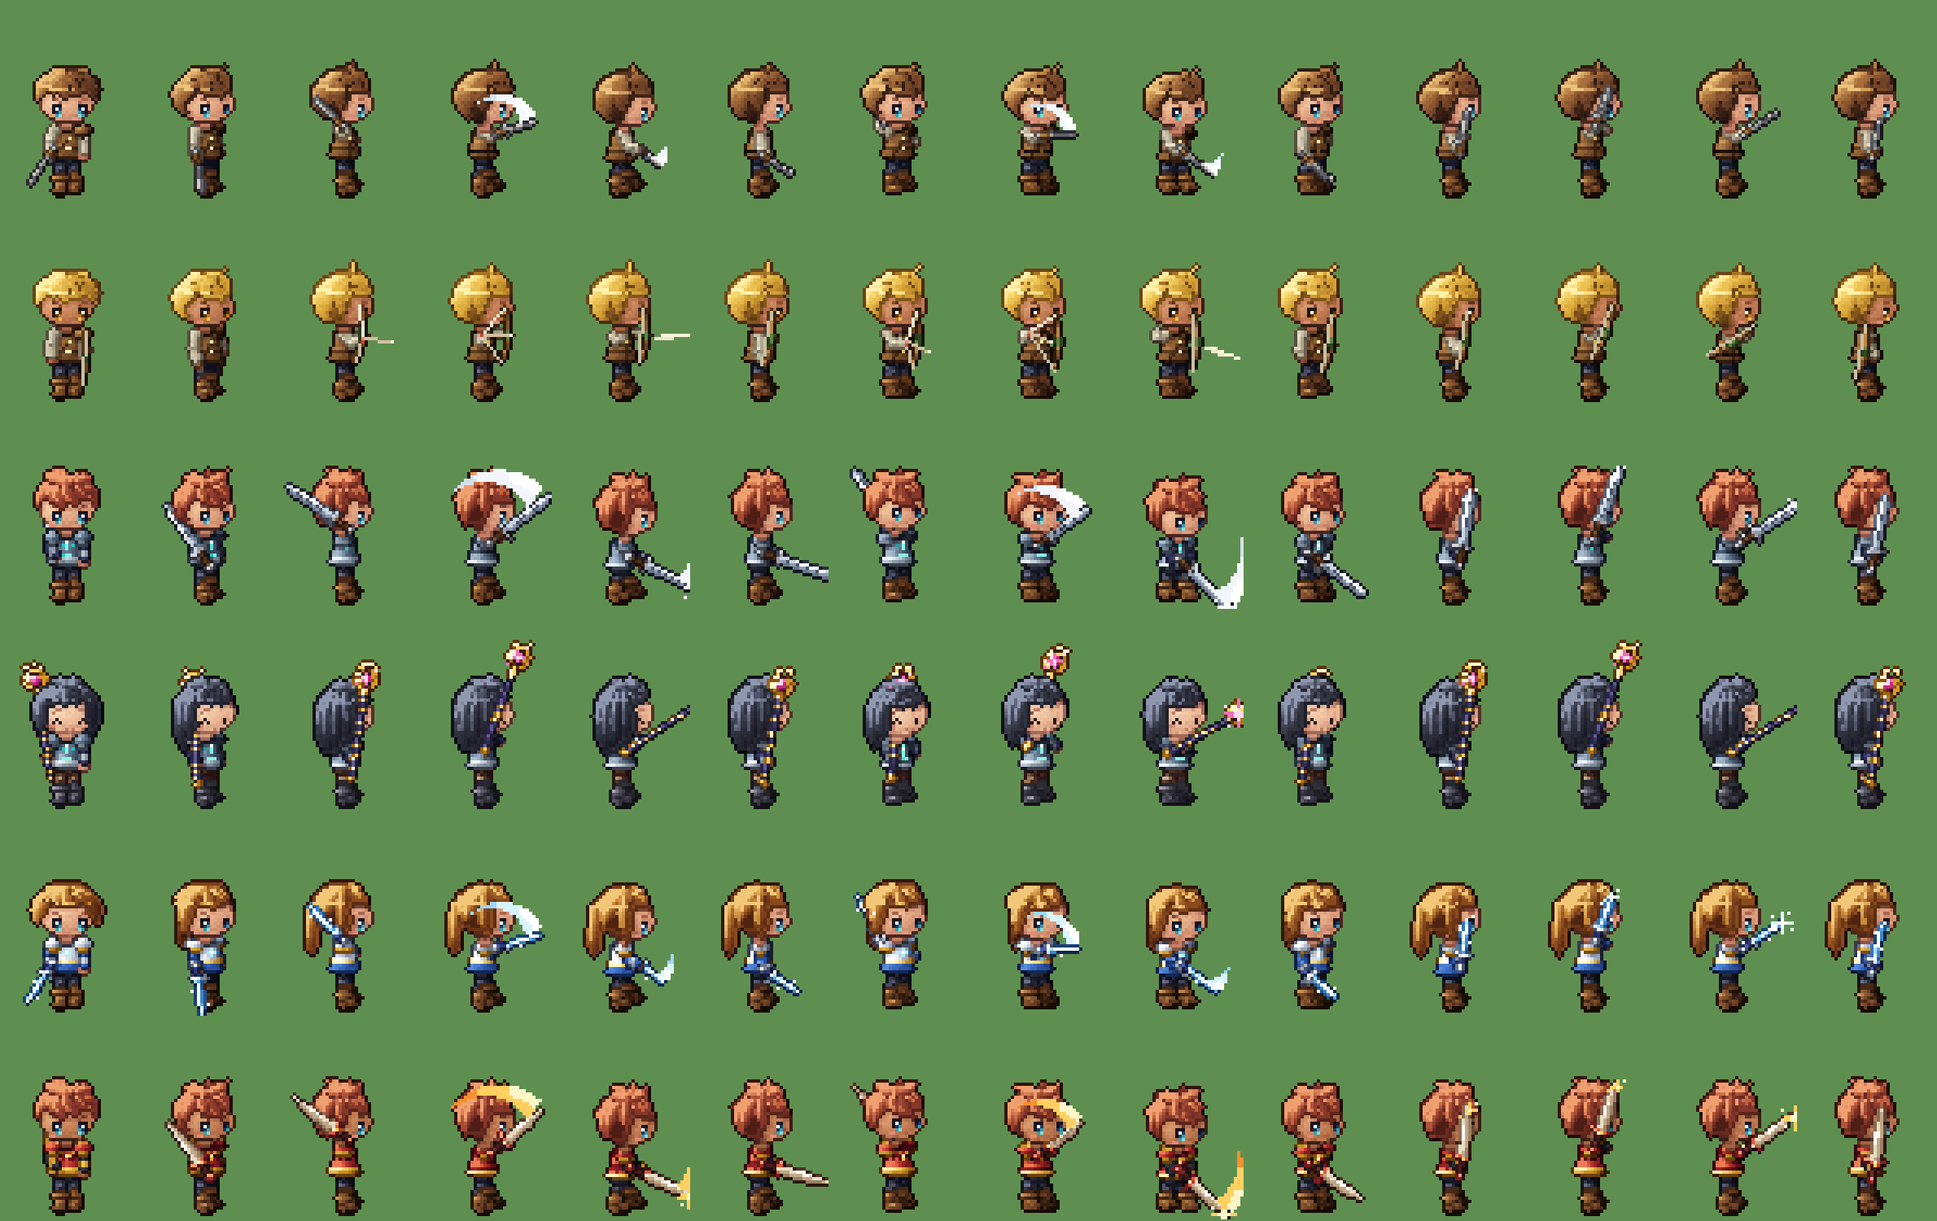
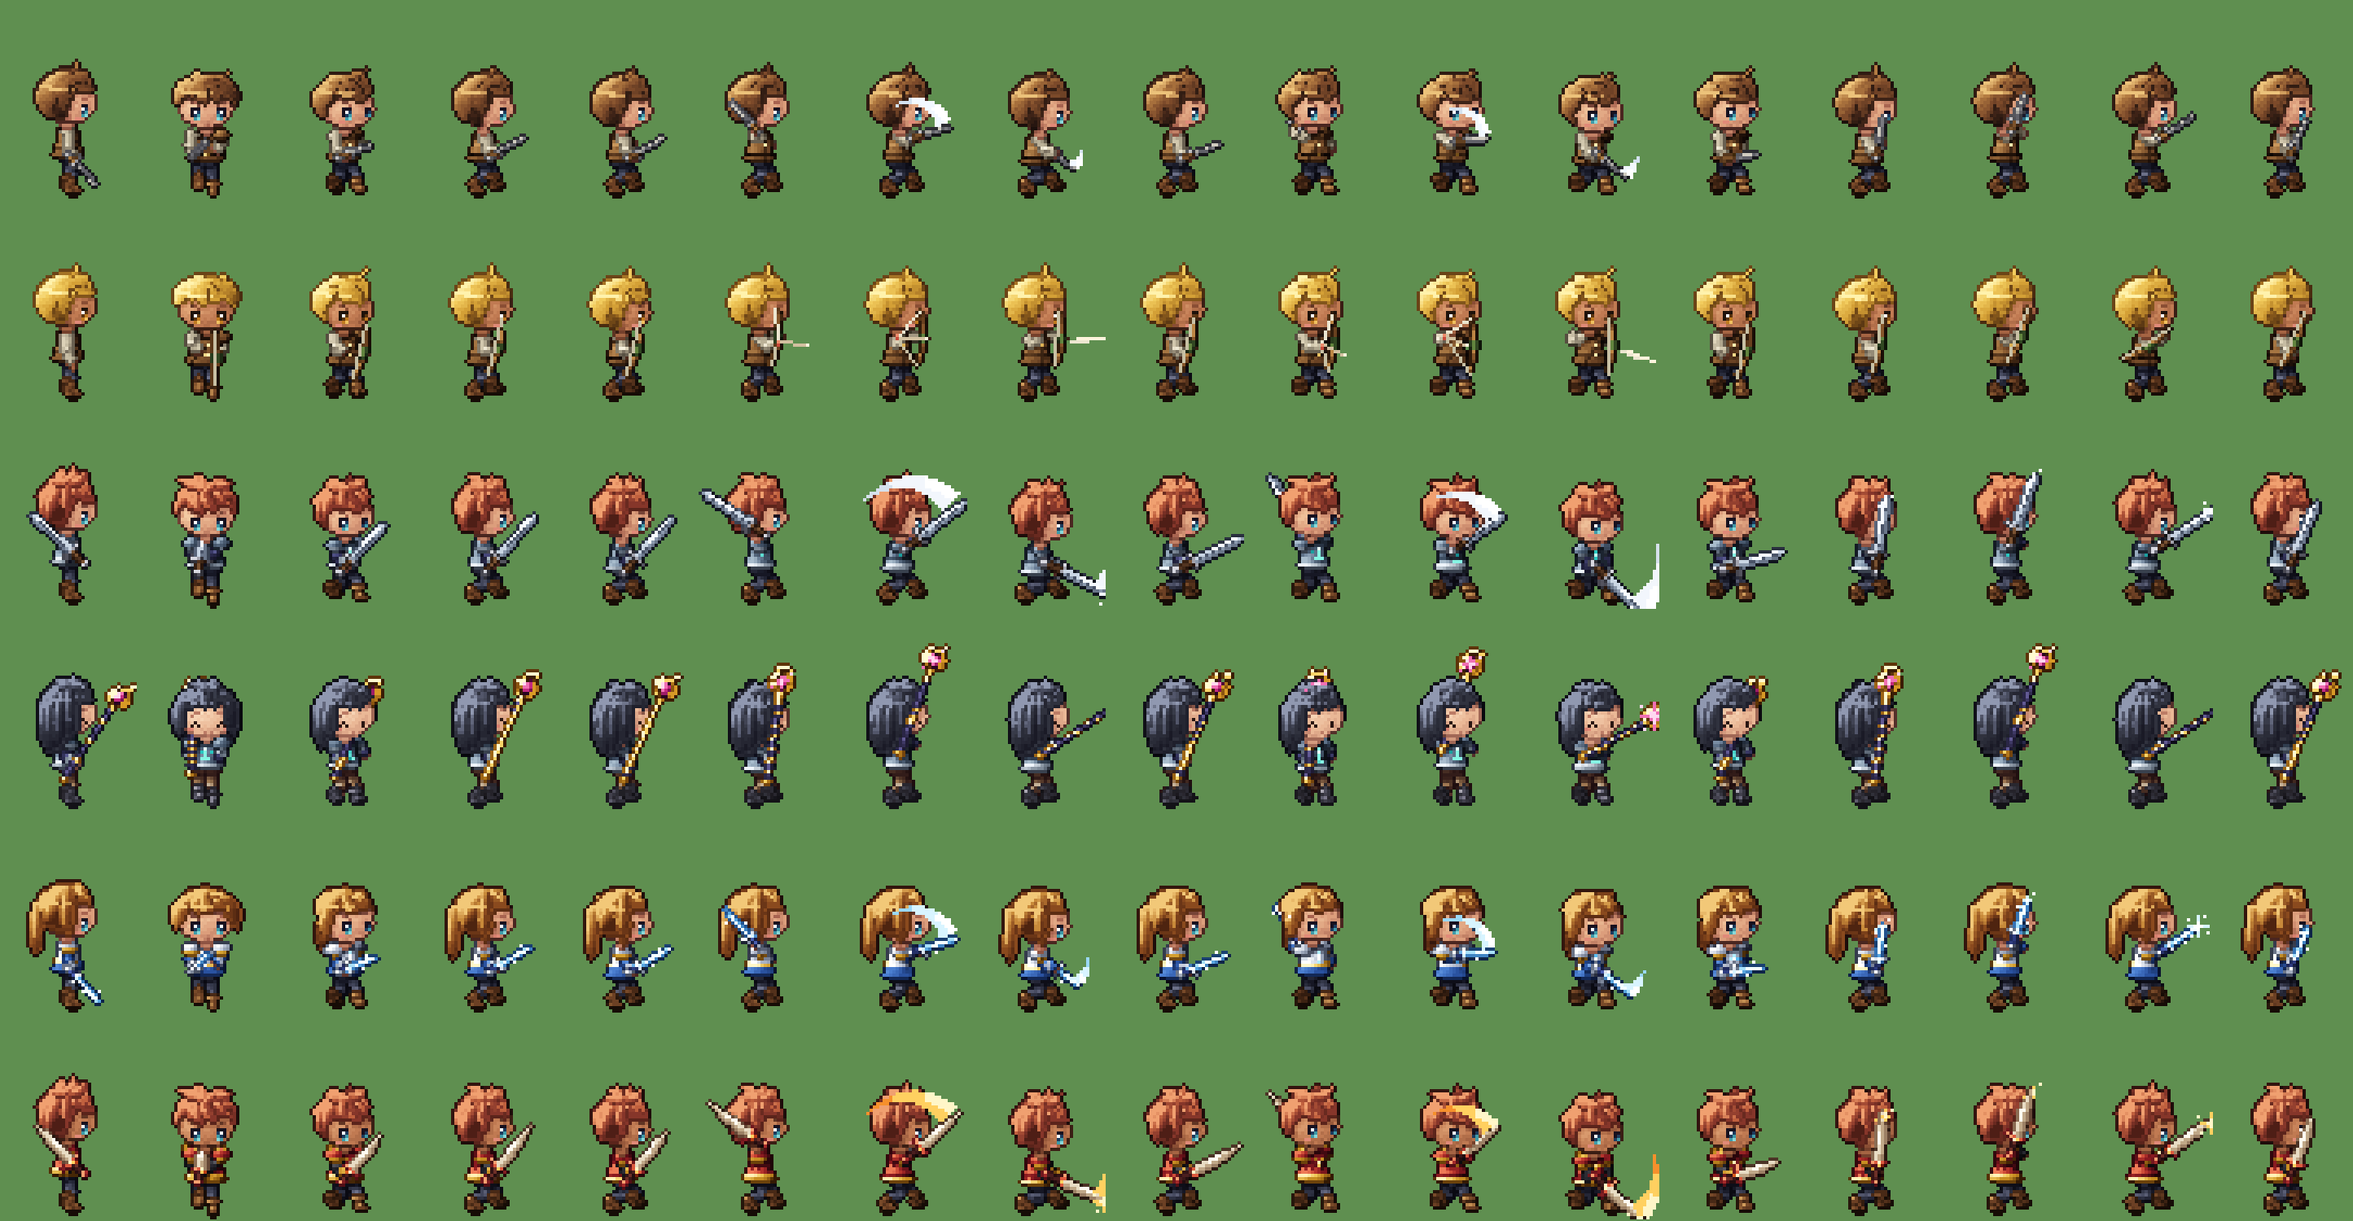
Combat ready stance per weapon, knee joints, smaller boots
- 'ready' 2-frame battle idle (frames 8-9), actions moved to 10-25; stance
  (foot spread, crouch, guard pose) depends on weapon hold
- legs get a knee joint that bends when hip-to-foot is shorter than the leg
- boots and trouser legs slimmed so leg poses stay readable

Claude-Session: https://claude.ai/code/session_01JLEecThURYQTCHEQgBW1W6

diff --git a/hd2d-walk-demo/src/character/rig.ts b/hd2d-walk-demo/src/character/rig.ts
@@ -33,23 +33,29 @@ export function setSpriteScale(s: number): void {
 }
 
 export const DIRS5: Dir5[] = ['S', 'SE', 'E', 'NE', 'N'];
-/** 战斗动作：每个 4 帧，接在行走后面 */
+/** 战斗动作：每个 4 帧，接在战斗待机后面 */
 export type ActionId = 'slash' | 'heavy' | 'shoot' | 'cast';
 export const ACTIONS: ActionId[] = ['slash', 'heavy', 'shoot', 'cast'];
 export const ACTION_LEN = 4;
 export const IDLE_FRAMES = [0, 1];
 export const WALK_FRAMES = [2, 3, 4, 5, 6, 7];
-/** 每个动作在 sheet 里的列号：挥砍 8–11，重劈 12–15，射箭 16–19，施法 20–23 */
+/** 战斗待机：两脚前后分开、压低重心、武器指向敌人，2 帧呼吸。姿势随武器种类变 */
+export const READY_FRAMES = [8, 9];
+const ACTION_BASE = 10;
+/** 每个动作在 sheet 里的列号：挥砍 10–13，重劈 14–17，射箭 18–21，施法 22–25 */
 export const ACTION_FRAMES: Record<ActionId, number[]> = Object.fromEntries(
-  ACTIONS.map((a, i) => [a, Array.from({ length: ACTION_LEN }, (_, k) => 8 + i * ACTION_LEN + k)]),
+  ACTIONS.map((a, i) => [a, Array.from({ length: ACTION_LEN }, (_, k) => ACTION_BASE + i * ACTION_LEN + k)]),
 ) as Record<ActionId, number[]>;
-export const FRAMES_PER_DIR = 8 + ACTIONS.length * ACTION_LEN;
+export const FRAMES_PER_DIR = ACTION_BASE + ACTIONS.length * ACTION_LEN;
+
+export type AnimId = 'idle' | 'walk' | 'ready' | ActionId;
 
 /** sheet 列号 → 动画名和动画内的帧序号 */
-export function frameInfo(frame: number): { anim: 'idle' | 'walk' | ActionId; t: number } {
+export function frameInfo(frame: number): { anim: AnimId; t: number } {
   if (frame < 2) return { anim: 'idle', t: frame };
   if (frame < 8) return { anim: 'walk', t: frame - 2 };
-  const k = frame - 8;
+  if (frame < ACTION_BASE) return { anim: 'ready', t: frame - 8 };
+  const k = frame - ACTION_BASE;
   return { anim: ACTIONS[Math.floor(k / ACTION_LEN)], t: k % ACTION_LEN };
 }
 
@@ -110,6 +116,8 @@ export interface Arm {
 export interface Leg {
   id: 'R' | 'L';
   hip: Joint;
+  /** 膝盖：腿伸直时在髋和脚的中点，下蹲 / 跨步时往前顶 */
+  knee: Joint;
   foot: Joint;
 }
 
@@ -118,8 +126,8 @@ export interface Pose {
   sin: number;
   cos: number;
   frame: number;
-  anim: 'idle' | 'walk' | ActionId;
-  /** 动画内的帧序号（待机 0-1，行走 0-5，动作 0-3） */
+  anim: AnimId;
+  /** 动画内的帧序号（待机 0-1，行走 0-5，战斗待机 0-1，动作 0-3） */
   t: number;
   /** 行走相位（弧度），待机为 0 */
   phase: number;
@@ -178,26 +186,65 @@ const ACTION_KEYS: Record<ActionId, ActKey[]> = {
     { R: [-8.5, 36, -3], L: [6, 22, 5], dir: [-0.15, 0.75, -0.65], lean: -0.5, bob: 0, step: 1 },
     { R: [-4, 30, 9], L: [7.5, 20, -2], dir: [0.1, 0.25, 1], lean: 1.5, bob: 0.5, step: 3, trail: true },
     { R: [-1, 22, 8], L: [8, 19, -3], dir: [0.55, -0.6, 0.55], lean: 2.2, bob: 1.5, step: 4, trail: true },
-    { R: [-8, 19, 4], L: [7.8, 17.6, -0.6], dir: [0.4, -0.6, 0.7], lean: 0.8, bob: 0.5, step: 2 },
+    { R: [-6, 21, 6], L: [5.5, 23, 4], dir: [0.2, 0.3, 0.93], lean: 1, bob: 0.5, step: 1 },
   ],
   heavy: [
     { R: [-3, 37, -2], L: [0, 0, 0], dir: [0.05, 0.55, -0.83], lean: -1, bob: 0, step: 1 },
     { R: [-2, 31, 8], L: [0, 0, 0], dir: [0.05, 0.6, 0.8], lean: 1.5, bob: 0.5, step: 3, trail: true },
     { R: [-1, 20, 9], L: [0, 0, 0], dir: [0.05, -0.45, 0.9], lean: 2.8, bob: 2.5, step: 5, trail: true, fx: 'burst' },
-    { R: [-3, 22, 6], L: [0, 0, 0], dir: [0.1, -0.35, 0.93], lean: 1.5, bob: 1, step: 3 },
+    { R: [-3, 21, 6], L: [0, 0, 0], dir: [0.1, 0.4, 0.9], lean: 1, bob: 1, step: 1.5 },
   ],
   shoot: [
     { R: [-3, 27, 8], L: [5, 27, 9], dir: [0, 1, 0.1], lean: 0.3, bob: 0, step: 2, fx: 'arrow' },
     { R: [-5, 30, -1], L: [3.5, 27, 12], dir: [0, 1, 0.05], lean: 0.5, bob: 0, step: 2, fx: 'arrow' },
     { R: [-7.5, 31, -4], L: [3.5, 27, 12], dir: [0, 1, 0.05], lean: 0.3, bob: 0, step: 2, fx: 'loose' },
-    { R: [-8, 20, 1], L: [6.5, 24, 6], dir: [0.05, 1, 0.15], lean: 0.2, bob: 0, step: 1 },
+    { R: [-4.5, 23, 2], L: [5, 23, 8], dir: [0, 1, 0.28], lean: 0.4, bob: 0, step: 0.5 },
   ],
   cast: [
     { R: [-8, 25, 5], L: [5, 25, 7], dir: [0, 1, 0.15], lean: 0.3, bob: 1, step: 1, fx: 'glow' },
     { R: [-7, 36, 4], L: [6, 27, 8], dir: [0.05, 0.92, 0.35], lean: 0.5, bob: 0, step: 1, fx: 'glow' },
     { R: [-5, 31, 10], L: [7.5, 22, 2], dir: [0.05, 0.55, 0.85], lean: 1.5, bob: 0.5, step: 2, fx: 'burst' },
-    { R: [-9, 22, 3.5], L: [7.8, 17.6, -0.6], dir: [0.05, 1, 0.2], lean: 0.5, bob: 0, step: 1 },
+    { R: [-7, 24, 5], L: [6, 25, 7], dir: [0.05, 0.9, 0.4], lean: 0.6, bob: 0, step: 0.5 },
   ],
+};
+
+/**
+ * 战斗站姿（按右手武器的握持方式）：战斗待机直接用它，攻击动作的脚步和下蹲也以它为底。
+ *   front / back：前脚（左脚）往前、后脚（右脚）往后各多少；crouch：压低多少
+ *   key：战斗待机那一帧的手和武器（第 2 帧在此基础上呼吸下沉）
+ */
+interface Stance {
+  front: number;
+  back: number;
+  crouch: number;
+  key: ActKey;
+}
+const STANCES: Record<Hold | 'none', Stance> = {
+  // 单手剑：侧身，剑尖斜指前上方，左手护在胸前
+  down: {
+    front: 5, back: 4.2, crouch: 2,
+    key: { R: [-6, 22, 6], L: [5.5, 24, 4.5], dir: [0.15, 0.45, 0.88], lean: 0.9, bob: 0, step: 0 },
+  },
+  // 双手大剑：最宽最低的马步，双手握剑斜架在身前
+  shoulder: {
+    front: 6, back: 5.2, crouch: 2.8,
+    key: { R: [-3, 21, 5], L: [0, 0, 0], dir: [0.1, 0.72, 0.68], lean: 0.6, bob: 0, step: 0 },
+  },
+  // 弓：侧身拉开距离，弓压低指向前方，右手搭在弦上
+  bow: {
+    front: 4.2, back: 4.8, crouch: 1.5,
+    key: { R: [-4, 24, 2.5], L: [5, 22, 8], dir: [0, 1, 0.3], lean: 0.4, bob: 0, step: 0 },
+  },
+  // 法杖：杖身前倾，左手张开在身前准备施法
+  up: {
+    front: 3.8, back: 3.2, crouch: 1.3,
+    key: { R: [-7, 24, 5], L: [6, 25, 7], dir: [0.05, 0.9, 0.42], lean: 0.6, bob: 0, step: 0 },
+  },
+  // 空手：双拳举在胸前
+  none: {
+    front: 4.4, back: 3.6, crouch: 1.7,
+    key: { R: [-4, 26, 6], L: [4.5, 27, 7.5], dir: [0.14, 0.95, 0.1], lean: 0.9, bob: 0, step: 0 },
+  },
 };
 
 /** 双手武器（重劈）：左手握在右手前面一点的剑柄上 */
@@ -213,8 +260,13 @@ export function makePose(dir: Dir5, frame: number, opts: PoseOptions = {}): Pose
   const [sin, cos] = TRIG[dir];
   const { anim, t } = frameInfo(frame);
   const walking = anim === 'walk';
-  const act = anim !== 'idle' && anim !== 'walk' ? ACTION_KEYS[anim][t] : undefined;
-  const prevAct = act && t > 0 ? ACTION_KEYS[anim as ActionId][t - 1] : undefined;
+  const stance = STANCES[opts.armedR ?? 'none'];
+  const act: ActKey | undefined =
+    anim === 'ready' ? { ...stance.key, bob: t === 1 ? 0.7 : 0 } :
+    anim !== 'idle' && anim !== 'walk' ? ACTION_KEYS[anim][t] : undefined;
+  const prevAct = act && anim !== 'ready' && t > 0 ? ACTION_KEYS[anim as ActionId][t - 1] : undefined;
+  // 双手握：重劈，以及大剑的战斗待机
+  const twoHand = anim === 'heavy' || (anim === 'ready' && opts.armedR === 'shoulder');
 
   let s = 0, c = 0, bob = 0, phase = 0;
   if (walking) {
@@ -223,7 +275,7 @@ export function makePose(dir: Dir5, frame: number, opts: PoseOptions = {}): Pose
     c = Math.cos(phase);
     bob = t % 3 === 1 ? 1 : 0; // 迈到最大步幅时身体下沉
   } else if (act) {
-    bob = act.bob;
+    bob = act.bob + stance.crouch; // 战斗中重心一直压低
   } else {
     bob = t === 1 ? 1 : 0; // 呼吸
   }
@@ -257,10 +309,10 @@ export function makePose(dir: Dir5, frame: number, opts: PoseOptions = {}): Pose
 
     // 弓拿在左手：左手是「持武器」的那只
     const isBowArm = hold === 'bow';
-    if (act && (sign < 0 || isBowArm || anim === 'heavy')) {
+    if (act && (sign < 0 || isBowArm || twoHand)) {
       // 动作帧：手的位置来自关键帧；双手重劈时左手握在剑柄上
       let p: V3 = sign < 0 ? act.R : act.L;
-      if (sign > 0 && anim === 'heavy') {
+      if (sign > 0 && twoHand) {
         p = [act.R[0] + act.dir[0] * TWO_HAND_GAP, act.R[1] + act.dir[1] * TWO_HAND_GAP, act.R[2] + act.dir[2] * TWO_HAND_GAP];
       }
       j = proj(p[0], p[1] - bob, p[2]);
@@ -327,18 +379,29 @@ export function makePose(dir: Dir5, frame: number, opts: PoseOptions = {}): Pose
   const armR = arm(-1, bow ? undefined : opts.armedR), armL = arm(1, bow ? 'bow' : opts.armedL);
 
   const leg = (id: 'R' | 'L', sign: -1 | 1): Leg => {
-    const hip = proj(2.8 * sign, HIP - bob, 0, 0);
+    const hipUp = HIP - bob;
+    const hip = proj(2.8 * sign, hipUp, 0, 0);
+    // 先求脚的局部坐标（side, up, fwd），再算膝盖
+    let fs: number, fu: number, ff: number;
     if (act) {
-      // 战斗动作：左脚往前跨，右脚往后蹬
-      return { id, hip, foot: sign < 0 ? proj(-3.6, 0, -act.step * 0.5) : proj(3.2, 0, act.step) };
-    }
-    if (!walking) {
+      // 战斗站姿：左脚在前、右脚在后，攻击时前脚再往前跨
+      [fs, fu, ff] = sign < 0 ? [-3.4, 0, -stance.back - act.step * 0.3] : [3.4, 0, stance.front + act.step * 0.6];
+    } else if (!walking) {
       // 稍息：右脚略向前、向外
-      return { id, hip, foot: sign < 0 ? proj(-3.6, 0, 1.5) : proj(3, 0, -0.4) };
+      [fs, fu, ff] = sign < 0 ? [-3.6, 0, 1.5] : [3, 0, -0.4];
+    } else {
+      const swing = -s * sign; // 右脚 fwd = +s
+      const lift = Math.max(0, -c * sign) * 2.6; // 向前摆的那只脚抬起
+      [fs, fu, ff] = [3 * sign, lift, 5 * swing];
     }
-    const swing = -s * sign; // 右脚 fwd = +s
-    const lift = Math.max(0, -c * sign) * 2.6; // 向前摆的那只脚抬起
-    return { id, hip, foot: proj(3 * sign, lift, 5 * swing) };
+    // 膝盖：大腿和小腿一样长，髋到脚的距离不够腿长时膝盖往前顶出去（下蹲、跨步时腿是弯的）
+    const LEG = 8.2;
+    const ds = fs - 2.8 * sign, du = fu - hipUp, df = ff;
+    const dist = Math.hypot(ds, du, df);
+    const bend = Math.sqrt(Math.max(0, LEG * LEG - (dist / 2) ** 2));
+    // 弯曲方向：大致朝前，后脚的膝盖也朝前（往下压）
+    const knee = proj(2.8 * sign + ds / 2, hipUp + du / 2, df / 2 + bend * 0.9, 0.2);
+    return { id, hip, knee, foot: proj(fs, fu, ff) };
   };
   const legR = leg('R', -1), legL = leg('L', 1);
   const legs: [Leg, Leg] = legR.foot.near <= legL.foot.near ? [legR, legL] : [legL, legR];

diff --git a/hd2d-walk-demo/src/items/shoes/boots.ts b/hd2d-walk-demo/src/items/shoes/boots.ts
@@ -3,7 +3,7 @@ import { LX, LY, LZ, DARKEN, LIGHTEN } from '../../pixel/Brush';
 import type { ItemDef, PartDef } from '../../character/types';
 import { farBias } from '../shared';
 
-/** 棕色短靴：宽翻边靴口、厚鞋底、朝脚尖方向伸出的鞋头。 */
+/** 棕色短靴：小巧的翻边靴口、薄鞋底、朝脚尖方向伸出的鞋头。脚要小，腿部动作（跨步、下蹲）才看得清。 */
 const brown = pal('boots-brown', '#160c06', '#3c2212', '#6c4024', '#9c6838', '#d09c5c');
 
 const boot = (i: 0 | 1): PartDef => ({
@@ -13,46 +13,46 @@ const boot = (i: 0 | 1): PartDef => ({
     const f = pose.legs[i].foot;
     const fb = farBias(c, f);
     const x = f.x, y = f.y;
-    const toe = pose.sin * 2.1;
+    const toe = pose.sin * 1.7;
     const front = pose.cos > 0.9;
     c.pal('main');
     g.anchor(x, y);
 
     // 脚掌：一个压扁的椭球，朝脚尖方向伸出去，底面削平
     const sole = y + (front ? 1.1 : 0.4);
-    const fcx = x + toe * 0.9, fcy = y - 1.4 + (front ? 0.7 : 0);
-    const frx = 3.1 + Math.abs(toe) * 0.75, fry = 2.6;
+    const fcx = x + toe * 0.9, fcy = y - 1.1 + (front ? 0.6 : 0);
+    const frx = 2.2 + Math.abs(toe) * 0.7, fry = 2;
     g.fill(fcx - frx, fcy - fry, fcx + frx, sole, (u, v) => {
       const nx = (u - fcx) / frx, ny = (v - fcy) / fry;
       const d = nx * nx + ny * ny;
       if (d > 1 || v > sole) return -1;
-      if (v > sole - 0.8) return OUTLINE; // 厚鞋底
+      if (v > sole - 0.6) return OUTLINE; // 鞋底
       return g.t(nx * LX + ny * LY + Math.sqrt(1 - d) * LZ, fb);
     });
     // 靴筒
-    g.capsule(x, y - 5.2, x, y - 2.4, 2.8, 2.9, (lam) => g.t(lam, fb));
+    g.capsule(x, y - 4.4, x, y - 2, 2.05, 2.15, (lam) => g.t(lam, fb));
     // 翻边靴口：比靴筒宽一圈
-    g.fill(x - 3.6, y - 7, x + 3.6, y - 4.6, (u, v) => {
-      const nx = (u - x) / 3.5;
-      if (Math.abs(nx) > 1 || v < y - 6.9 || v > y - 4.7) return -1;
-      return g.t(nx * LX + Math.sqrt(1 - nx * nx) * LZ, fb + (v > y - 5.4 ? -0.3 : 0.3));
+    g.fill(x - 2.7, y - 5.9, x + 2.7, y - 4, (u, v) => {
+      const nx = (u - x) / 2.6;
+      if (Math.abs(nx) > 1 || v < y - 5.8 || v > y - 4.1) return -1;
+      return g.t(nx * LX + Math.sqrt(1 - nx * nx) * LZ, fb + (v > y - 4.7 ? -0.3 : 0.3));
     });
 
     g.clip = true;
-    g.line(x - 2.8, y - 4.4, x + 3, y - 4.4, DARKEN); // 翻边下的阴影
+    g.line(x - 2, y - 3.8, x + 2.2, y - 3.8, DARKEN); // 翻边下的阴影
     if (fb === 0) {
-      g.dot(x - 2.6, y - 6.6, HI);
+      g.dot(x - 1.8, y - 5.5, HI);
       if (pose.cos > 0.3) {
         const lx = x + pose.sin * 1.2;
-        g.line(lx - 1, y - 3, lx + 1, y - 3, LIGHTEN); // 鞋带
+        g.line(lx - 0.8, y - 2.6, lx + 0.8, y - 2.6, LIGHTEN); // 鞋带
       } else if (pose.cos < -0.3) {
-        g.line(x, y - 4.8, x, y - 1.4, DARKEN); // 后跟的缝线
+        g.line(x, y - 4, x, y - 1.2, DARKEN); // 后跟的缝线
       } else {
-        g.fold(x - 1.2, y - 3.4, x + 2, y - 2.6); // 脚踝的褶
+        g.fold(x - 1, y - 3, x + 1.6, y - 2.3); // 脚踝的褶
       }
       g.dot(fcx - 0.8 + toe * 0.3, fcy - 1, LIGHTEN); // 鞋头高光
     } else {
-      g.line(x - 2.8, y - 3.8, x + 3, y - 3.8, DARK);
+      g.line(x - 2, y - 3.3, x + 2.2, y - 3.3, DARK);
     }
     g.clip = false;
   },

diff --git a/hd2d-walk-demo/scripts/action-preview.ts b/hd2d-walk-demo/scripts/action-preview.ts
@@ -1,12 +1,12 @@
 /**
- * 战斗动作 / 装备预览：每行一套「护甲 + 武器」，先是正面和右前的待机，再是这把武器的攻击动作
+ * 战斗动作 / 装备预览：每行一套「护甲 + 武器」，先是右侧的普通待机做对比，再是战斗待机（正面、右前、右侧两帧），然后是这把武器的攻击动作
  * （右侧 4 帧 = 战斗场景里的朝向，右前 4 帧），最后是施法 / 鼓舞动作的右侧 4 帧。
  *   npm run action-preview -- <输出.png>
  */
 import { writeFileSync } from 'node:fs';
 import { PixelLayer } from '../src/pixel/PixelLayer';
 import { composeFrame } from '../src/character/paperdoll';
-import { ACTION_FRAMES, SPR_H, SPR_W, type ActionId } from '../src/character/rig';
+import { ACTION_FRAMES, READY_FRAMES, SPR_H, SPR_W, type ActionId } from '../src/character/rig';
 import type { Dir5 } from '../src/character/types';
 import { CHARACTERS, buildEquipment, type CharacterPreset } from '../src/items/characters';
 import { getItem } from '../src/items/registry';
@@ -23,7 +23,7 @@ const rows: { label: string; p: CharacterPreset; top?: string }[] = [
 ];
 
 const Z = 4, PAD = 2;
-const head: [Dir5, number][] = [['S', 0], ['SE', 0]];
+const head: [Dir5, number][] = [['E', 0], ['S', READY_FRAMES[0]], ['SE', READY_FRAMES[0]], ['E', READY_FRAMES[0]], ['E', READY_FRAMES[1]]];
 function rowCells(attack: ActionId): [Dir5, number][] {
   return [
     ...head,

diff --git a/hd2d-walk-demo/src/character/types.ts b/hd2d-walk-demo/src/character/types.ts
@@ -1,7 +1,7 @@
 import type { Palette } from '../pixel/palette';
 import type { PixelLayer } from '../pixel/PixelLayer';
 import type { Brush } from '../pixel/Brush';
-import type { ActionId, HandAnchor, Hold, Pose, Joint } from './rig';
+import type { ActionId, AnimId, HandAnchor, Hold, Pose, Joint } from './rig';
 import type { LayerId } from './layers';
 
 /** 装备槽位 */
@@ -17,7 +17,7 @@ export interface DrawCtx {
   dir: Dir5;
   /** sheet 列号：0-1 待机，2-7 行走 */
   frame: number;
-  anim: 'idle' | 'walk' | ActionId;
+  anim: AnimId;
   /** 这一帧的骨架姿态（关节坐标、手部锚点等） */
   pose: Pose;
   /** 当前部件的临时图层（像素坐标），只写调色板索引 */

diff --git a/hd2d-walk-demo/src/items/bottom/trousers.ts b/hd2d-walk-demo/src/items/bottom/trousers.ts
@@ -16,9 +16,11 @@ const leg = (i: 0 | 1): PartDef => ({
     const fx = l.foot.x, fy = l.foot.y - 5;
     c.pal('main');
     g.anchor(fx, fy);
-    g.capsule(l.hip.x, l.hip.y, fx, fy, 2.8, 2.5, (lam) => g.t(lam, fb + 0.05));
+    // 大腿 + 小腿两段，膝盖处能弯
+    g.capsule(l.hip.x, l.hip.y, l.knee.x, l.knee.y, 2.5, 2.1, (lam) => g.t(lam, fb + 0.05));
+    g.capsule(l.knee.x, l.knee.y, fx, fy, 2.1, 1.95, (lam) => g.t(lam, fb + 0.05));
     // 膝盖和裤脚的褶
-    const kx = (l.hip.x + fx) / 2, ky = (l.hip.y + fy) / 2;
+    const kx = l.knee.x, ky = l.knee.y;
     g.fold(kx - 1.8, ky, kx + 1.4, ky + 0.7);
     g.fold(fx - 1.8, fy - 1.4, fx + 1.6, fy - 0.8, false);
   },

diff --git a/hd2d-walk-demo/src/items/body.ts b/hd2d-walk-demo/src/items/body.ts
@@ -91,7 +91,8 @@ export const body: ItemDef = {
         c.pal('skin');
         for (const leg of c.pose.legs) {
           const fb = farBias(c, leg.foot);
-          g.capsule(leg.hip.x, leg.hip.y, leg.foot.x, leg.foot.y - 1.5, 2.2, 1.8, (lam) => g.t(lam, fb));
+          g.capsule(leg.hip.x, leg.hip.y, leg.knee.x, leg.knee.y, 2, 1.7, (lam) => g.t(lam, fb));
+          g.capsule(leg.knee.x, leg.knee.y, leg.foot.x, leg.foot.y - 1.5, 1.7, 1.5, (lam) => g.t(lam, fb));
         }
       },
     },
